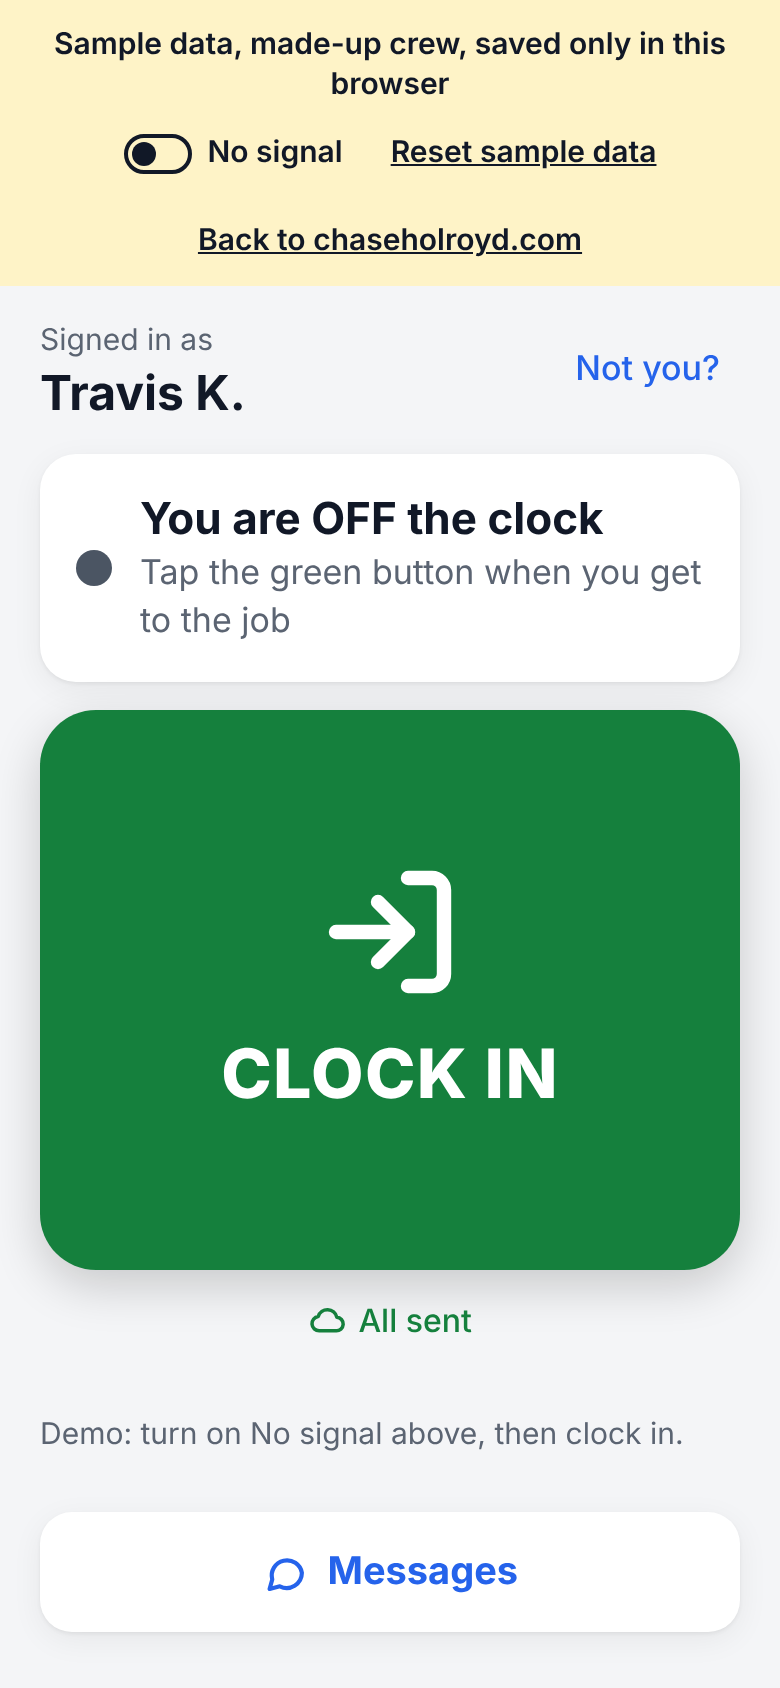
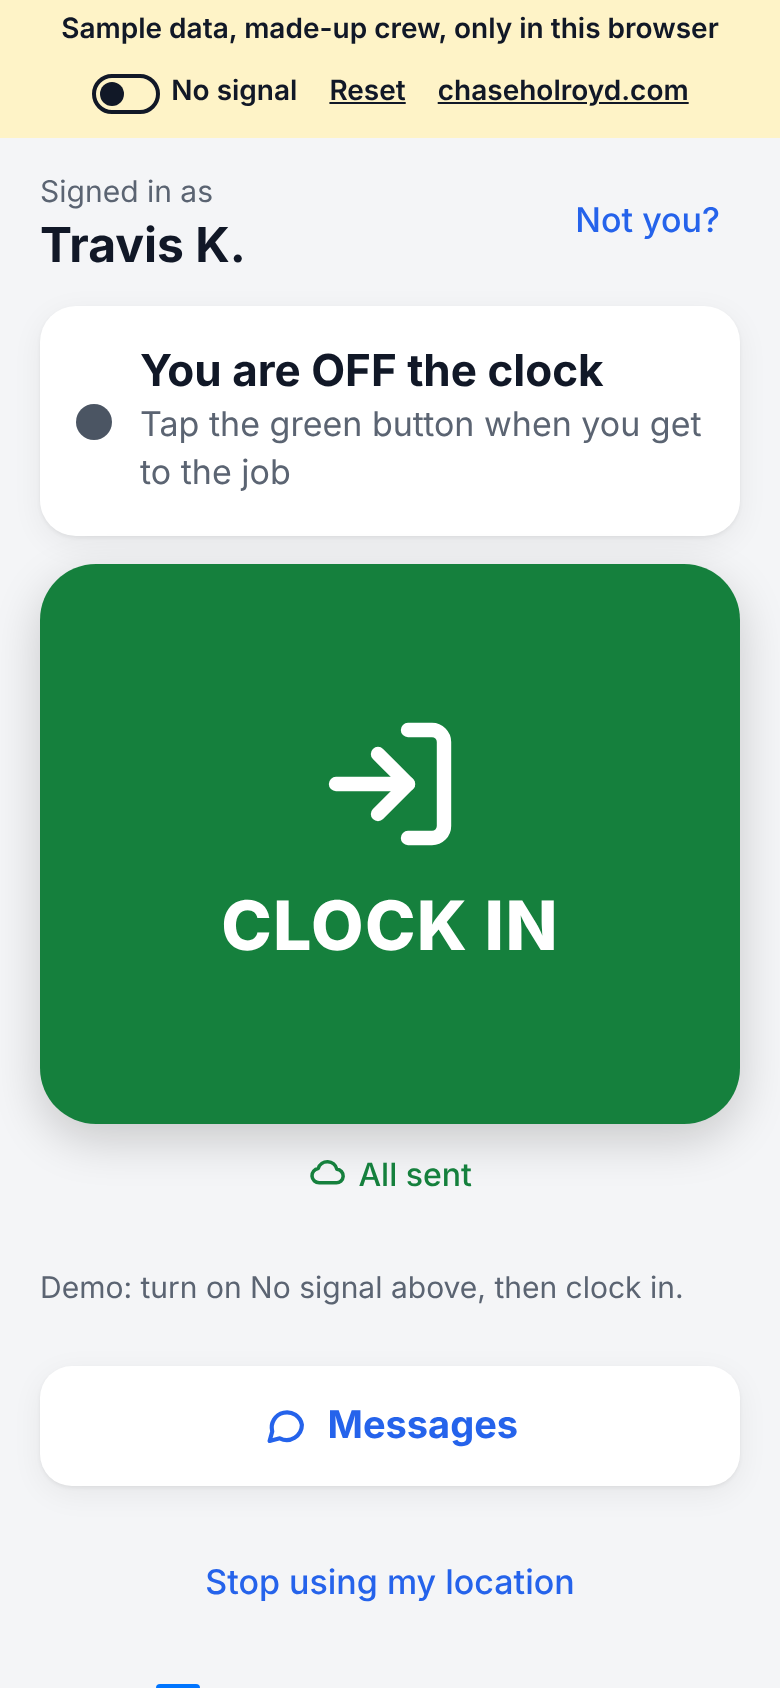
Showcase review round 2: fix UX-R49 to UX-R53 (Today rows above the fold on small phones, summary totals and wording, chat back target, README matches the phone)
Claude-Session: https://claude.ai/code/session_01MKPp6Q6DLWWfzavUEi5Jrb

diff --git a/tests/e2e-polish.js b/tests/e2e-polish.js
@@ -702,9 +702,9 @@ for (const scheme of ['light', 'dark']) {
   });
 }
 
-// ---------- UX-R43: boss Today shows a shift above the tab bar on a phone ----------
-for (const [vp, rule] of [[PHONE, 'bottom'], [{ width: 360, height: 740 }, 'top']]) {
-  t(`UX-R43 ${vp.width}x${vp.height} fresh demo, 1:30 PM: the first Today shift ${rule === 'bottom' ? 'is fully' : 'starts'} above the tab bar, and the demo banner is <= 96px`, async (browser) => {
+// ---------- UX-R43 / UX-R49: boss Today shows the whole first shift above the tab bar on a phone (360 and 390) ----------
+for (const [vp, rule] of [[PHONE, 'bottom'], [{ width: 360, height: 740 }, 'bottom']]) {
+  t(`UX-R43/R49 ${vp.width}x${vp.height} fresh demo, 1:30 PM: the first Today shift ${rule === 'bottom' ? 'is fully' : 'starts'} above the tab bar, and the demo banner is <= 96px`, async (browser) => {
     const page = await open(browser, vp);
     await boss(page, 'today');
     await page.waitForSelector('.shift');
@@ -735,6 +735,70 @@ t('UX-R45 390: every button in the boss header and the Day/Week toggle is at lea
     .map((b) => ({ name: (b.getAttribute('aria-label') || b.innerText || '').trim(), h: b.getBoundingClientRect().height }))
     .filter((b) => b.h < 44));
   if (short.length) throw new Error(`under 44px: ${short.map((b) => `"${b.name}" ${b.h.toFixed(1)}px`).join(', ')}`);
+  return page;
+});
+
+// ---------- UX-R53: every control the README's walkthrough names in bold is on the 390px demo ----------
+// A browser case (not tests/readme.test.js, which is node-only): it walks the README's steps and
+// collects each screen's visible text, plus the aria-labels of icon-only controls. Matching ignores
+// case and runs of spaces.
+t('UX-R53 390: every bold name in the README\'s "What to try" (and its banner sentence) is visible text or an aria-label on the demo', async (browser) => {
+  const fs = require('fs');
+  const path = require('path');
+  const readme = fs.readFileSync(path.join(__dirname, '../README.md'), 'utf8');
+  const walk = readme.slice(readme.indexOf('## What to try'), readme.indexOf('## Product decisions'));
+  if (walk.length < 100) throw new Error('setup: no "What to try" section in README.md');
+  const bold = (x) => [...new Set([...x.matchAll(/\*\*([^*]+)\*\*/g)].map((m) => m[1].trim()))];
+  const all = bold(walk);
+  const bannerLine = walk.replace(/\s+/g, ' ').match(/Every demo screen has a banner[^.]*\./);
+  if (!bannerLine) throw new Error('setup: the README lost its banner sentence');
+  const bannerNames = bold(bannerLine[0]);
+  const norm = (x) => x.replace(/\s+/g, ' ').trim().toLowerCase();
+  const seen = [];
+  const banner = [];
+  const grab = async () => {
+    const r = await page.evaluate(() => {
+      const shown = (e) => { const b = e.getBoundingClientRect(); return b.width > 0 && b.height > 0; };
+      // An aria-label counts only for a control a visitor sees no words on (an icon button): a
+      // button showing "Reset" with the label "Reset sample data" shows a visitor "Reset".
+      const labels = (root) => [...root.querySelectorAll('[aria-label]')].filter((e) => shown(e) && !e.innerText.trim()).map((e) => e.getAttribute('aria-label'));
+      const b = document.querySelector('.demo-banner');
+      return { text: [document.body.innerText, ...labels(document)].join('\n'), banner: b ? [b.innerText, ...labels(b)].join('\n') : '' };
+    });
+    seen.push(norm(r.text));
+    banner.push(norm(r.banner));
+  };
+  const page = await open(browser);
+  await grab(); // first screen: Travis K., Start here, Billy S., Sam W.
+  await signIn(page, 'Travis K.');
+  await grab(); // worker Home: No signal, Clock In, Messages, Not you?
+  await page.click('[data-to="chat-list"]');
+  await page.waitForSelector('[data-action="chat-open"]', { timeout: 20000 }).catch(() => {});
+  await grab(); // chat list: Smith kitchen crew
+  await page.goto(BASE);
+  await page.waitForSelector('.punch, .name-btn');
+  if (await page.locator('[data-action="sign-out"]').count()) await page.click('[data-action="sign-out"]');
+  await page.waitForSelector('.name-btn');
+  await boss(page, 'map');
+  await grab(); // boss: Map, Today
+  await bossTab(page, 'today');
+  await page.waitForSelector('[data-action="demo-tamper"]', { timeout: 10000 }).catch(() => {});
+  await grab(); // Try tampering, Week
+  if (await page.locator('[data-action="demo-tamper"]').count()) {
+    await page.click('[data-action="demo-tamper"]');
+    await page.waitForSelector('[data-action="demo-untamper"]', { timeout: 10000 }).catch(() => {});
+    await grab(); // Undo the change
+    if (await page.locator('[data-action="demo-untamper"]').count()) await page.click('[data-action="demo-untamper"]');
+  }
+  await page.getByRole('button', { name: 'Week', exact: true }).click();
+  await page.waitForSelector('table.week');
+  await grab(); // Download CSV
+  const missing = all.filter((n) => !seen.some((t) => t.includes(norm(n))));
+  const notInBanner = bannerNames.filter((n) => !banner.some((t) => t.includes(norm(n))));
+  const errs = [];
+  if (missing.length) errs.push(`README bold names not on any 390px demo screen: ${missing.map((n) => `"${n}"`).join(', ')}`);
+  if (notInBanner.length) errs.push(`README's banner sentence names ${notInBanner.map((n) => `"${n}"`).join(', ')}, not in the 390px banner's text or labels`);
+  if (errs.length) throw new Error(errs.join('; '));
   return page;
 });
 

diff --git a/js/app.js b/js/app.js
@@ -4,6 +4,7 @@
   const cfg = self.APP_CONFIG || {};
   const $app = document.getElementById('app');
   const FIX_WINDOW_MS = 2 * 60 * 1000;
+  const SMALL_TODAY = '(max-width: 420px)'; // boss Today puts the people above the summary (UX-R49)
 
   // iPhone/iPad Safari in the browser (not installed to the Home Screen): Safari 26's floating
   // toolbar sits over the bottom of the page, so the CSS lifts the boss tab bar clear of it.
@@ -1186,7 +1187,7 @@
     if (self.AI) {
       const names = Object.fromEntries(teamCrew().map((c) => [c.id, c.name]));
       const jobNames = Object.fromEntries(((state.team && state.team.jobs) || state.jobs).map((j) => [j.id, j.name]));
-      const text = state.aiSummary || AI.plainSummary(shifts, names, jobNames, notIn.map((c) => c.name), Date.now(), { pastDay: sampleYesterday });
+      const text = state.aiSummary || AI.plainSummary(shifts, names, jobNames, notIn.map((c) => c.name), Date.now(), { pastDay: sampleYesterday, dayOver: !!dayOver });
       state.summaryFacts = text;
       // The demo never loads a model: it would fetch a script from another site (SEP-2)
       const canWrite = !Api.isDemo && AI.tier() >= 2 && !state.aiSummary && shifts.length;
@@ -1194,14 +1195,18 @@
         ${canWrite ? `<button class="link" data-action="ai-summary">Write it up with AI on this phone</button>` : ''}
         ${state.aiSummary ? '<div class="muted small">Written by an AI model running on this phone.</div>' : ''}</div>`;
     }
+    // On a small phone the people come first and the summary follows them, so a whole shift row
+    // shows above the tab bar (UX-R49). DOM order matches what is seen, so reading and focus order do too.
+    const small = !!(self.matchMedia && matchMedia(SMALL_TODAY).matches);
     return `<div class="pad">
       <div class="today-head"><h2>${sampleYesterday ? 'Yesterday (sample day)' : 'Today'}</h2>${seg}</div>
       ${visitorToday ? '<p class="muted small">Your own punches from this morning are added to it.</p>' : ''}
       ${verifyHtml(dayPunches)}
-      ${summary}
+      ${small ? '' : summary}
       ${notIn.length ? `<div class="not-in"><div class="not-in-title">${Icons.alert} ${dayOver ? 'Not in' : 'Not in yet'} (${notIn.length})</div>
         <div>${notIn.map((c) => `<span class="pill">${esc(c.name)}</span>`).join('')}</div></div>` : ''}
       <div class="list">${rows || '<p class="muted">No one has clocked in today.</p>'}</div>
+      ${small ? summary : ''}
       ${verifyHintHtml(dayPunches)}
       <div id="push-slot"></div>
       <div class="actions">${isBoss() ? `<button class="btn secondary" data-action="send-report">${Icons.send} Send today's report now</button>` : ''}${sheet}</div>
@@ -1389,6 +1394,12 @@
     if (state.screen === 'job-form') mountJobMap();
     if (self.Messenger) Messenger.afterRender();
     mountPush();
+  }
+  // Turning a phone or resizing across 420px moves the Today summary to its place for that width (UX-R49)
+  if (self.matchMedia) {
+    const mq = matchMedia(SMALL_TODAY);
+    const onSmall = () => { if (state.screen === 'boss' && state.bossTab === 'today' && state.todayView !== 'week') render(); };
+    if (mq.addEventListener) mq.addEventListener('change', onSmall); else if (mq.addListener) mq.addListener(onSmall);
   }
 
   async function mountPush() {

diff --git a/tests/e2e-enhance.js b/tests/e2e-enhance.js
@@ -512,6 +512,40 @@ t('UX-R46b before 9 AM, with a visitor\'s clock-in on "Yesterday (sample day)", 
   return page;
 });
 
+// ---------- showcase review round 2: the day summary agrees with the screen ----------
+t('UX-R50 at 7 PM the summary\'s hours equal the Week "All" cell for today', async (browser) => {
+  const page = await open(browser, { hour: 19 });
+  await bossToday(page);
+  await verifiedCount(page);
+  const summary = await text(page.locator('#summary-text'));
+  const m = summary.match(/worked (\d+\.\d) hours/);
+  if (!m) throw new Error(`summary has no "worked N.N hours": "${summary}"`);
+  await page.getByRole('button', { name: 'Week', exact: true }).click();
+  await page.waitForSelector('table.week tfoot');
+  const all = await page.evaluate(() => {
+    const col = (new Date().getDay() + 6) % 7 + 1;
+    const tr = document.querySelector('table.week tfoot tr');
+    return tr && tr.children[col] ? tr.children[col].innerText.trim() : null;
+  });
+  if (all !== m[1]) throw new Error(`summary says ${m[1]} hours, the Week "All" cell for today says "${all}"`);
+  return page;
+});
+
+t('UX-R51 at 1:30 PM the summary says "Not in yet: Travis K.", not "Didn\'t clock in"; at 7 PM it says "Didn\'t clock in: Travis K."', async (browser) => {
+  const errs = [];
+  for (const [hour, want, never] of [[13.5, /Not in yet: Travis K\./, /Didn't clock in/], [19, /Didn't clock in: Travis K\./, /Not in yet/]]) {
+    const page = await open(browser, { hour });
+    await bossToday(page);
+    await verifiedCount(page);
+    const summary = await text(page.locator('#summary-text'));
+    if (!want.test(summary)) errs.push(`at ${hour === 19 ? '7 PM' : '1:30 PM'} the summary lacks ${want}: "${summary}"`);
+    if (never.test(summary)) errs.push(`at ${hour === 19 ? '7 PM' : '1:30 PM'} the summary says ${never}`);
+    if (page.errors.length) errs.push('page errors: ' + page.errors.join('; '));
+  }
+  if (errs.length) throw new Error(errs.join('; '));
+  return null;
+});
+
 // ---------- the crew app never gets the demo controls ----------
 const SB = 'https://fake.supabase.co';
 const b64 = (o) => Buffer.from(JSON.stringify(o)).toString('base64url');

diff --git a/tests/enhance.test.js b/tests/enhance.test.js
@@ -345,3 +345,26 @@ test('UX-R42 Report.fmtHours: one formatter for hours everywhere, rounding halve
   assert.strictEqual(Report.fmtHours(4), '4.0');
   assert.strictEqual(Report.fmtHours(8.44), '8.4');
 });
+
+// ---------- showcase review round 2 (UX-R50, UX-R51) ----------
+test('UX-R50 plainSummary totals the tenths shown per shift, like the Today rows and the Week cells (3.96 + 7.96 + 8.46 + 8.46 h says 29.0)', () => {
+  const AI = require('../js/ai.js');
+  const s = AI.plainSummary([
+    { crewId: 'a', jobId: 'j1', status: 'onsite', hours: 3.96 },
+    { crewId: 'b', jobId: 'j1', status: 'onsite', hours: 7.96 },
+    { crewId: 'c', jobId: 'j2', status: 'onsite', hours: 8.46 },
+    { crewId: 'd', jobId: 'j2', status: 'onsite', hours: 8.46 },
+  ], { a: 'A', b: 'B', c: 'C', d: 'D' }, { j1: 'Job one', j2: 'Job two' }, [], 0, { dayOver: true });
+  assert.match(s, /worked 29\.0 hours/, `summary: "${s}"`);
+});
+
+test('UX-R51 plainSummary says "Not in yet:" while the day is not over, and "Didn\'t clock in:" once it is', () => {
+  const AI = require('../js/ai.js');
+  const shifts = [{ crewId: 'a', jobId: 'j1', status: 'onsite', hours: 8 }];
+  const midDay = AI.plainSummary(shifts, { a: 'Jake R.' }, { j1: 'Job one' }, ['Travis K.'], 0, { dayOver: false });
+  assert.match(midDay, /Not in yet: Travis K\./, `mid-day summary: "${midDay}"`);
+  assert.doesNotMatch(midDay, /Didn't clock in/, `mid-day summary: "${midDay}"`);
+  const evening = AI.plainSummary(shifts, { a: 'Jake R.' }, { j1: 'Job one' }, ['Travis K.'], 0, { dayOver: true });
+  assert.match(evening, /Didn't clock in: Travis K\./, `evening summary: "${evening}"`);
+  assert.doesNotMatch(evening, /Not in yet/, `evening summary: "${evening}"`);
+});

diff --git a/js/ai.js b/js/ai.js
@@ -92,7 +92,9 @@
     const people = new Set(shifts.map((s) => s.crewId));
     const onsite = shifts.filter((s) => s.status === 'onsite').length;
     const running = shifts.filter((s) => s.open && s.inAt != null && at > s.inAt);
-    const hours = shifts.reduce((a, s) => a + (s.hours || 0), 0) + running.reduce((a, s) => a + (at - s.inAt) / 3600000, 0);
+    // Each shift counts as the tenths shown on its row and in the Week cells, so the totals agree (UX-R50)
+    const tenths = (h) => Math.round((h || 0) * 10) / 10;
+    const hours = shifts.reduce((a, s) => a + tenths(s.hours), 0) + running.reduce((a, s) => a + tenths((at - s.inAt) / 3600000), 0);
     const flagged = shifts.filter((s) => s.status === 'offsite' || s.status === 'near' || s.status === 'nogps' || s.missingOut);
     const byJob = {};
     shifts.forEach((s) => { byJob[jobs[s.jobId] || 'a job'] = (byJob[jobs[s.jobId] || 'a job'] || 0) + 1; });
@@ -112,7 +114,8 @@
     const groups = REASONS.map(([, words], i) => [words, Object.keys(worst).filter((id) => worst[id] === i).map((id) => names[id] || 'someone')])
       .filter(([, who]) => who.length);
     if (groups.length) parts.push(end(`Check: ${groups.map(([words, who]) => `${words} for ${who.join(', ')}`).join('; ')}`));
-    if (notIn && notIn.length) parts.push(end(`Didn't clock in: ${notIn.join(', ')}`));
+    // Mid-day the missing are "not in yet"; once the day is over (or unknown) they "didn't clock in" (UX-R51)
+    if (notIn && notIn.length) parts.push(end(`${opts && opts.dayOver === false ? 'Not in yet' : "Didn't clock in"}: ${notIn.join(', ')}`));
     return parts.join(' ');
   }
 

diff --git a/tests/e2e-demo-chat.js b/tests/e2e-demo-chat.js
@@ -190,6 +190,26 @@ for (const vp of [{ width: 390, height: 844 }, { width: 360, height: 740 }, { wi
   });
 }
 
+// ---------- UX-R52: the thread's Back button is a full 48x48 touch target ----------
+for (const vp of [{ width: 360, height: 740 }, { width: 390, height: 844 }, { width: 1280, height: 800 }]) {
+  t(`UX-R52 ${vp.width}x${vp.height}: every Back button in the open thread's header is at least 48x48`, async (browser) => {
+    const { page } = await open(browser);
+    await page.setViewportSize(vp);
+    await signIn(page, 'Sam W.');
+    await chatList(page);
+    await groups(page, true);
+    await openGroup(page, 'Smith kitchen crew');
+    await page.waitForSelector('.chat-head .back');
+    const backs = await page.$$eval('.chat-head .back', (bs) => bs.map((b) => {
+      const r = b.getBoundingClientRect();
+      return { name: b.getAttribute('aria-label') || b.innerText.trim(), w: r.width, h: r.height };
+    }));
+    const small = backs.filter((b) => b.w < 48 || b.h < 48);
+    if (small.length) throw new Error(`under 48x48: ${small.map((b) => `"${b.name}" ${b.w.toFixed(1)}x${b.h.toFixed(1)}px`).join(', ')}`);
+    return page;
+  });
+}
+
 async function pageState(page) {
   return page.evaluate(() => {
     const h = document.querySelector('#app h1, #app h2, #app .job-name');

diff --git a/css/app.css b/css/app.css
@@ -383,6 +383,7 @@ h2 { font-size: 24px; margin: 4px 0 12px; }
 .e2e.small svg { width: 14px; height: 14px; }
 .screen.chat { gap: 0; padding-bottom: 0; height: auto; min-height: 0; }
 .chat-head { display: flex; align-items: center; gap: 8px; padding-bottom: 10px; border-bottom: 1px solid var(--line); }
+.chat-head .back { min-width: 48px; justify-content: center; } /* a full 48x48 touch target (UX-R52) */
 .bubbles { flex: 1; overflow-y: auto; display: flex; flex-direction: column; gap: 8px; padding: 14px 0; }
 .bubble { max-width: 82%; align-self: flex-start; background: var(--card); box-shadow: var(--shadow); border-radius: 18px 18px 18px 6px; padding: 10px 14px; display: flex; flex-direction: column; gap: 2px; font-size: 18px; }
 .bubble b { font-size: 14px; color: var(--blue); }

diff --git a/README.md b/README.md
@@ -45,8 +45,8 @@ data.
    in, out and hours, no GPS).
 
 Before 9 AM your time the sample crew's day is yesterday's, labeled "Yesterday (sample day)".
-Every demo screen has a banner that says it's sample data, with **Reset sample data** and a link
-back to chaseholroyd.com.
+Every demo screen has a banner that says it's sample data, with **Reset** (start the sample data
+over) and a link back to chaseholroyd.com.
 
 ## Product decisions
 
